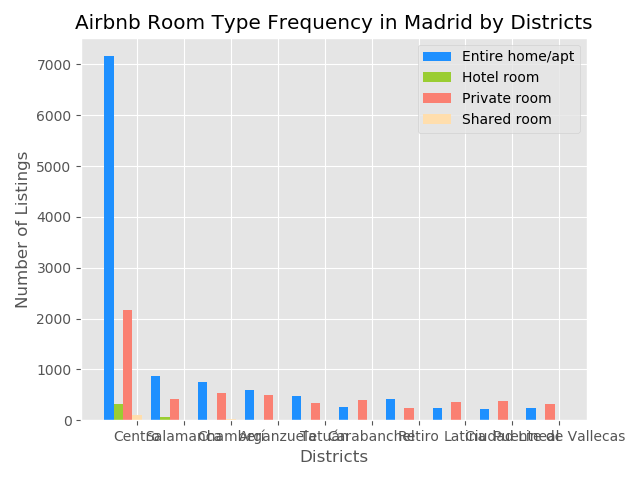
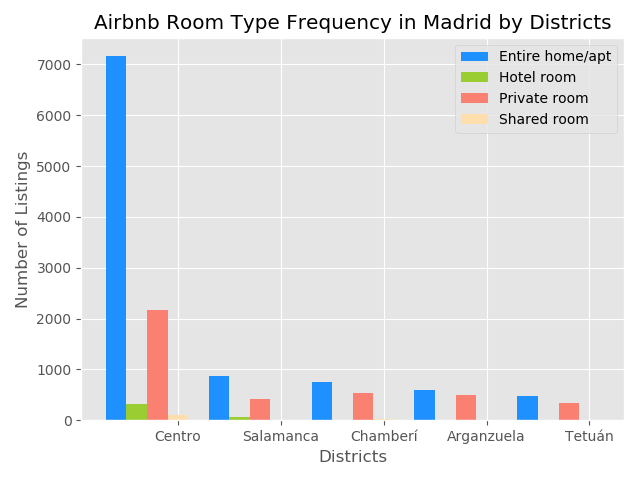
updated madrid room type plot

Changed region(s): [[0.125, 0.0312, 1.0, 0.9688]]

diff --git a/src/plots.py b/src/plots.py
@@ -41,7 +41,6 @@ def side_by_side_bar(d, title, xlabel, ylabel):
         ax.set_xlabel(xlabel)
         ax.set_ylabel(ylabel)
         ax.set_title(title)
-        # plt.xticks(rotation = 80)
         plt.legend()
         plt.tight_layout(pad=1)
         N -= 1
@@ -135,7 +134,7 @@ if __name__ == "__main__":
     bar_plot(madrid_neighborhood_counts, madrid_neighborhood_labels, 'Top 10 Airbnb Frequency in Madrid by Neighborhood', 'Number of Listings', 'Neighborhoods')
     plt.savefig('images/top20_madrid_neighborhoods.png')
 
-    room_type_by_borough_madrid = grouped_roomtype_count(madrid, 'neighbourhood_group', 10)
+    room_type_by_borough_madrid = grouped_roomtype_count(madrid, 'neighbourhood_group', 5)
     side_by_side_bar(room_type_by_borough_madrid, 'Airbnb Room Type Frequency in Madrid by Districts', 'Districts', 'Number of Listings')
     plt.savefig('images/room_type_districts.png')
 

diff --git a/README.md b/README.md
@@ -224,6 +224,8 @@ Digging deeper into price, host listings counts, and availability in Madrid.
     <img src="images/madrid_map.png" width = '400' />
 </p>
 
+## Conclusion 
 
 
-    
+
+# References
